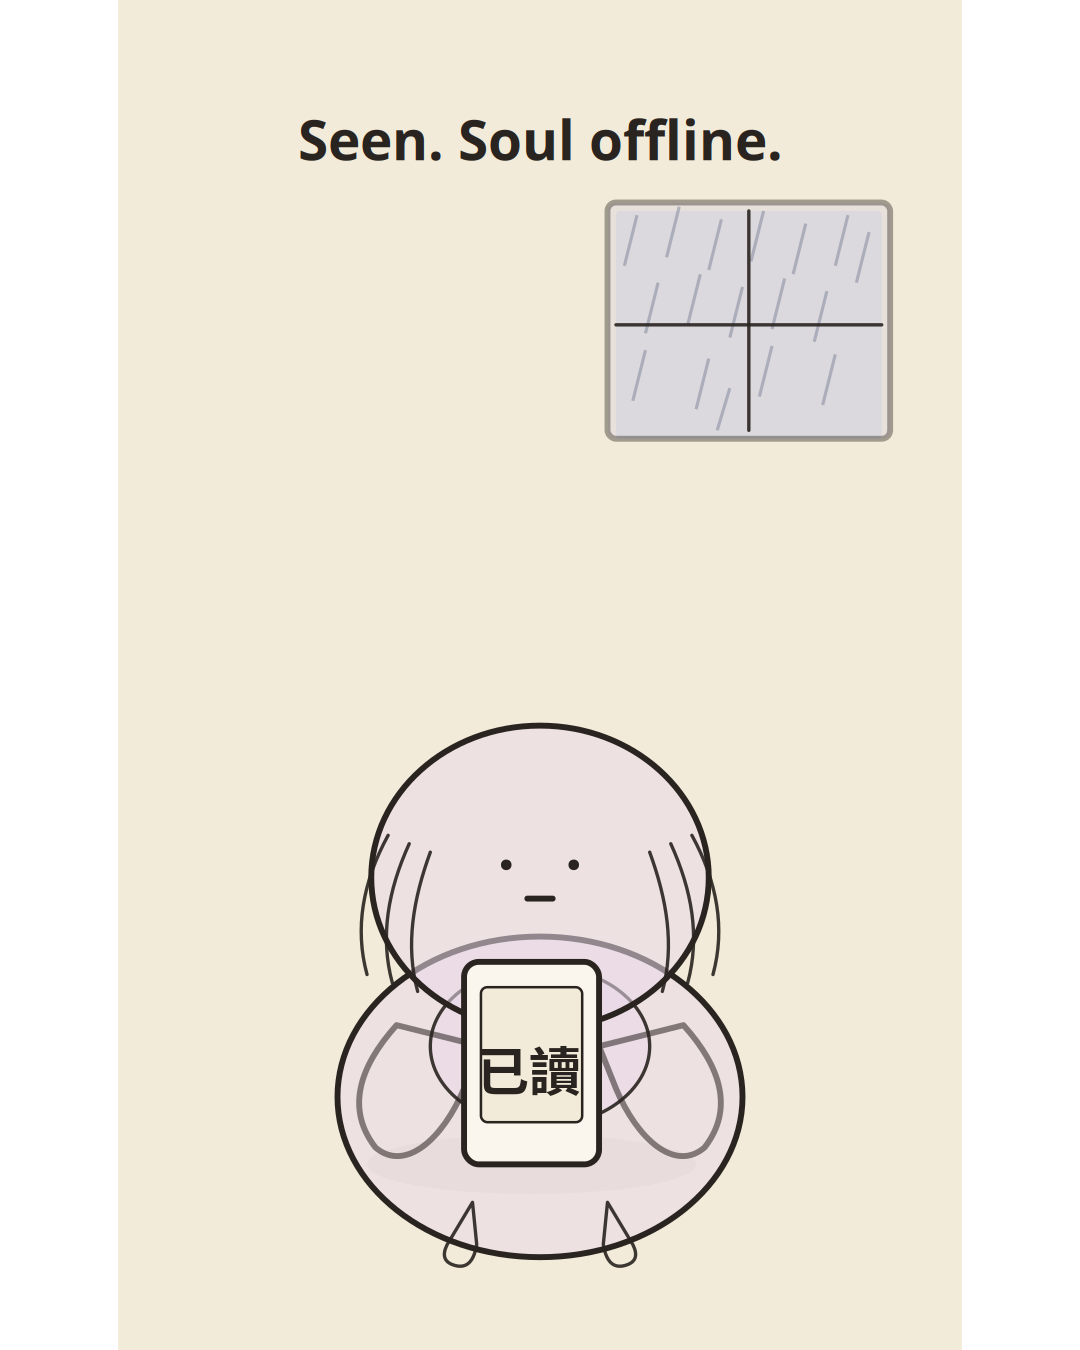
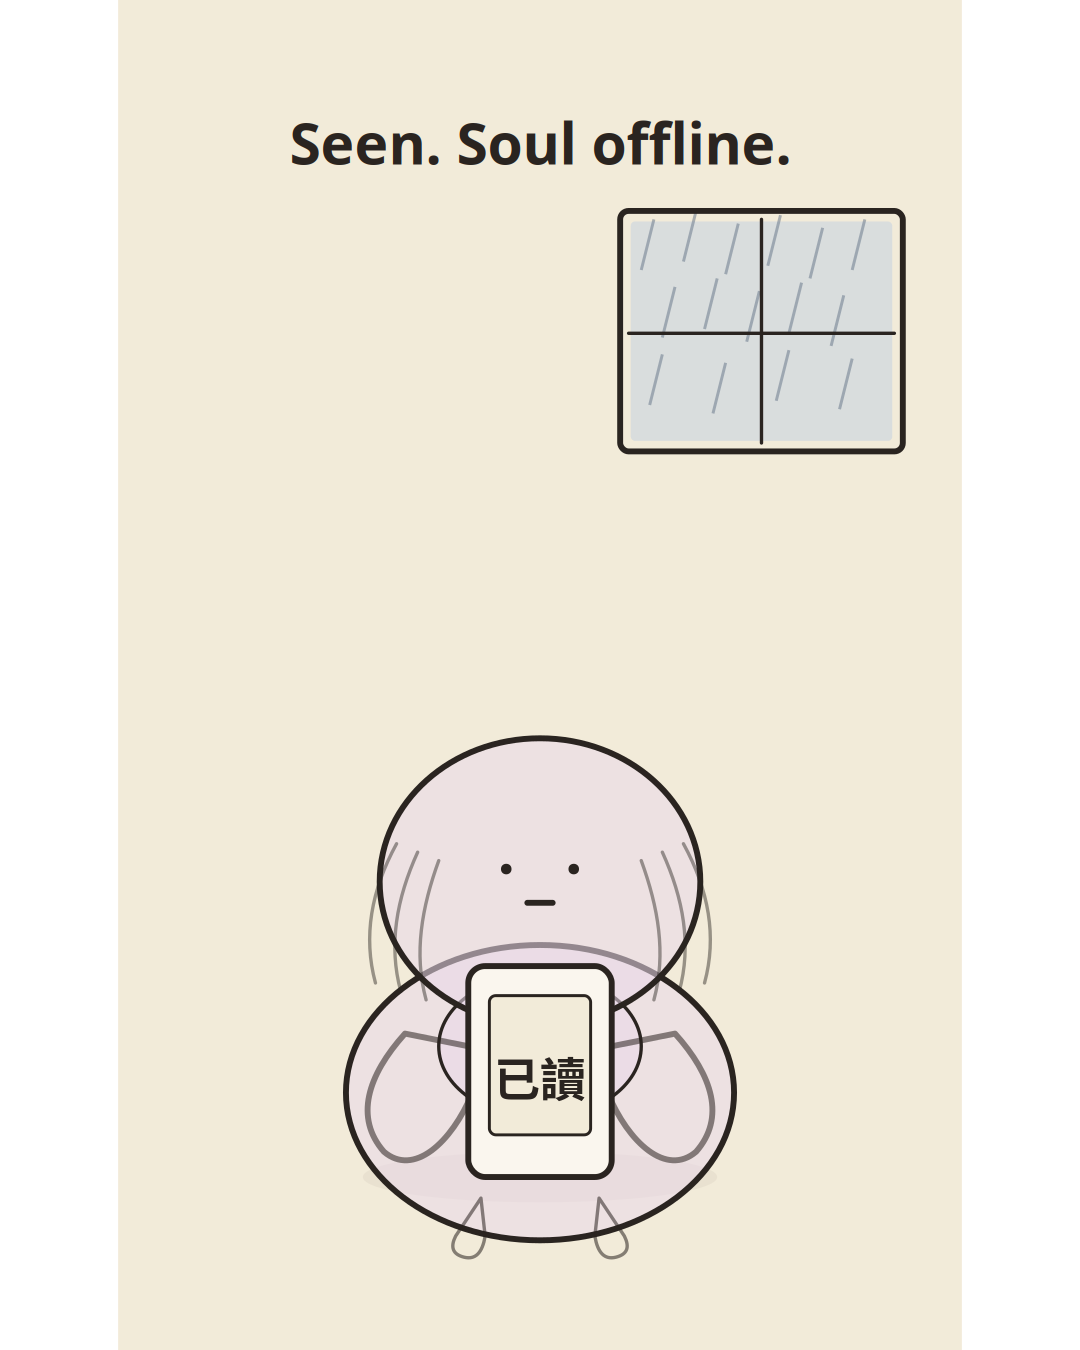
Regenerate Day 3: hugging knees, 已讀 phone, rainy window, English headline

Changed region(s): [[0.3056, 0.5289, 0.7028, 0.9333], [0.275, 0.0622, 0.8556, 0.3422]]

diff --git a/scripts/export-day3-png.py b/scripts/export-day3-png.py
@@ -1,39 +1,48 @@
 #!/usr/bin/env python3
-"""Export Day 3 SVG to PNG and stamp 已讀 on phone screen."""
+"""Export Day 3 SVG to 1080x1350 PNG with 已讀 on phone."""
+import urllib.request
+from pathlib import Path
+
 import cairosvg
 from PIL import Image, ImageDraw, ImageFont
 
-SVG = "/workspace/assets/axo/pen/axo-pen-day3-seen.svg"
-OUT = "/workspace/assets/axo/pen/png/axo-pen-day3-seen.png"
+SVG = Path("/workspace/assets/axo/pen/axo-pen-day3-seen.svg")
+OUT = Path("/workspace/assets/axo/pen/png/axo-pen-day3-seen.png")
+FONT = Path("/tmp/NotoSansTC-Bold.otf")
+FONT_URL = (
+    "https://cdn.jsdelivr.net/gh/notofonts/noto-cjk@main/"
+    "Sans/OTF/TraditionalChinese/NotoSansCJKtc-Bold.otf"
+)
 W, H = 1080, 1350
 
-cairosvg.svg2png(url=f"file://{SVG}", write_to=OUT, output_width=W, output_height=H)
 
-im = Image.open(OUT).convert("RGBA")
-draw = ImageDraw.Draw(im)
+def ensure_font() -> Path:
+    if not FONT.exists():
+        print("Downloading Noto Sans TC...")
+        urllib.request.urlretrieve(FONT_URL, FONT)
+    return FONT
 
-# Phone screen center: SVG (128+8+24, 268+188+12+32) -> scale to 1080x1350
-sx, sy = W / 400, H / 640
-cx = (36 + 128 + 8 + 24) * sx
-cy = (268 + 188 + 12 + 32) * sy
-font = None
-for path in (
-    "/tmp/NotoSansTC-Bold.otf",
-    "/usr/share/fonts/opentype/noto/NotoSansCJK-Bold.ttc",
-    "/usr/share/fonts/truetype/noto/NotoSansCJK-Bold.ttc",
-):
-    try:
-        font = ImageFont.truetype(path, 52)
-        break
-    except OSError:
-        continue
-if font is None:
-    font = ImageFont.load_default()
 
-text = "已讀"
-bbox = draw.textbbox((0, 0), text, font=font)
-tw, th = bbox[2] - bbox[0], bbox[3] - bbox[1]
-draw.text((cx - tw // 2, cy - th // 2), text, fill="#2A2420", font=font)
+def main() -> None:
+    ensure_font()
+    OUT.parent.mkdir(parents=True, exist_ok=True)
+    cairosvg.svg2png(url=f"file://{SVG}", write_to=str(OUT), output_width=W, output_height=H)
 
-im.save(OUT, "PNG")
-print(f"Wrote {OUT}")
+    sx, sy = W / 400, H / 640
+    # phone group: translate(48,290) + (118,168) + screen center (34,47)
+    cx = (48 + 118 + 34) * sx
+    cy = (290 + 168 + 47) * sy
+
+    im = Image.open(OUT).convert("RGBA")
+    draw = ImageDraw.Draw(im)
+    font = ImageFont.truetype(str(FONT), 46)
+    text = "\u5df2\u8b80"  # 已讀
+    bbox = draw.textbbox((0, 0), text, font=font)
+    tw, th = bbox[2] - bbox[0], bbox[3] - bbox[1]
+    draw.text((cx - tw / 2, cy - th / 2), text, fill="#2A2420", font=font)
+    im.save(OUT, "PNG")
+    print(f"Wrote {OUT} ({W}x{H})")
+
+
+if __name__ == "__main__":
+    main()
